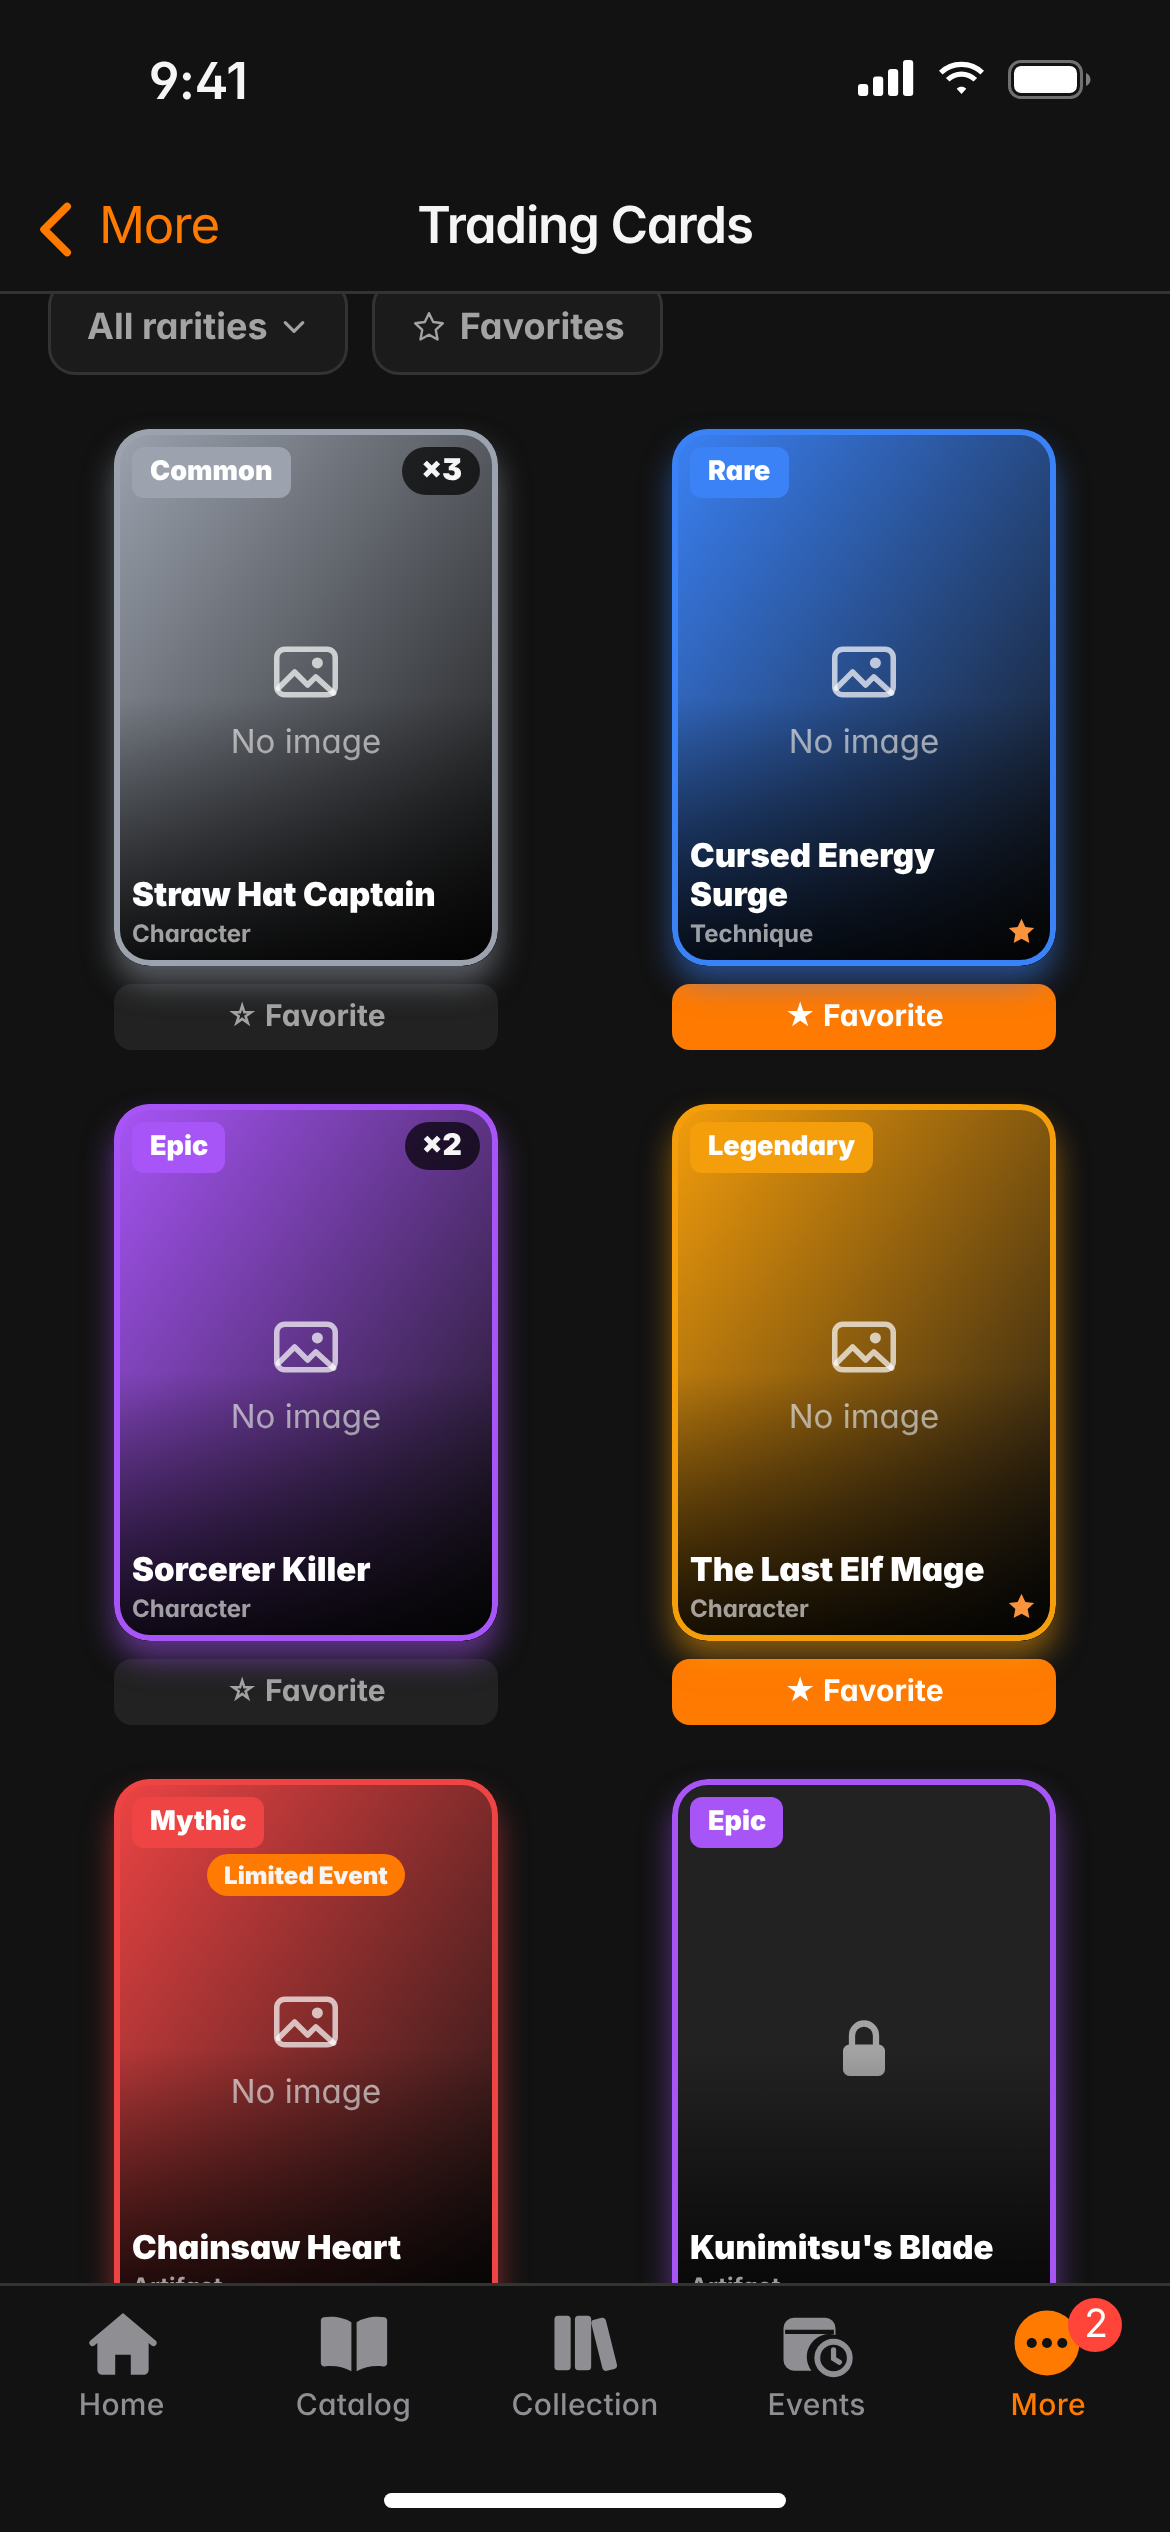
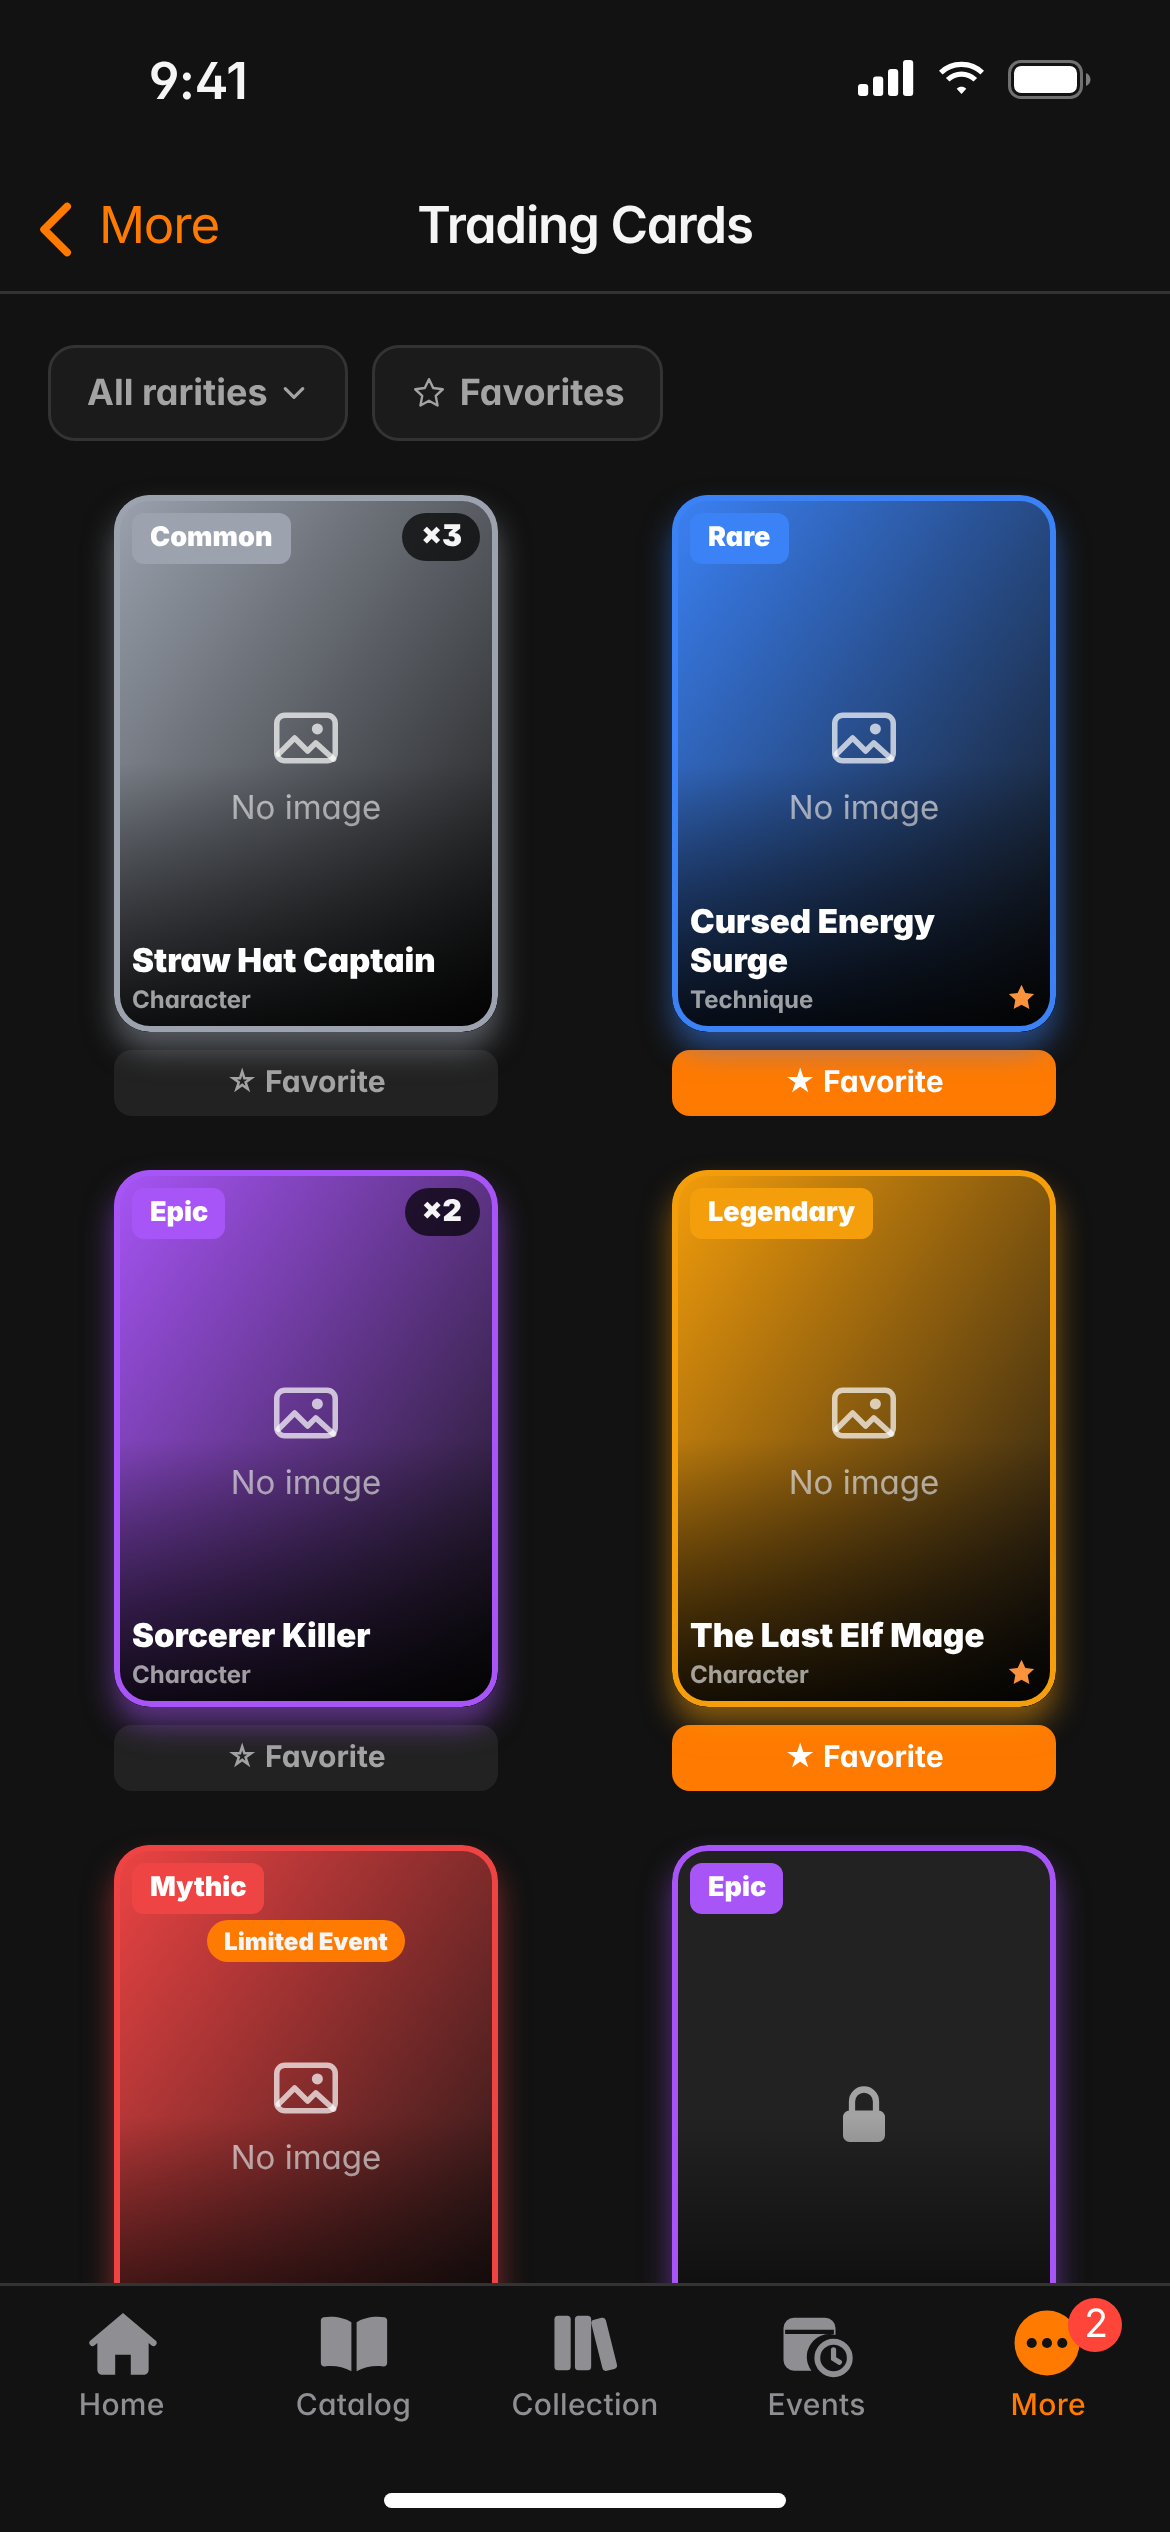
README: iPhone screenshots
Claude-Session: https://claude.ai/code/session_01NJDkH3k9qpo2oF5tB7Xcjf

diff --git a/docs/screenshots/src/profile.html b/docs/screenshots/src/profile.html
@@ -1,0 +1,39 @@
+<!doctype html>
+<html lang="en"><head><meta charset="utf-8"><meta name="viewport" content="width=390">
+<title>Profile – ProfileView</title>
+<link rel="stylesheet" href="style.css"><script src="common.js"></script></head>
+<body><script>
+// ProfileView(profileId:) (Views/Profile/ProfileView.swift): a friend's public profile, opened from Friends.
+// No banner/avatar uploaded → the view's default gradient banner and person placeholder.
+const { icon, badge } = MV;
+const stat = (l, v) => `<div class="vstack" style="gap:1px"><span class="c2 w7 muted up">${l}</span><span class="t3 w9">${v}</span></div>`;
+const tag = (t) => `<span class="c1 w7" style="padding:5px 10px;border-radius:8px;background:var(--card-solid);box-shadow:inset 0 0 0 1px var(--border);white-space:nowrap">${t}</span>`;
+const tags = (title, list) => `<div class="c1 w7 muted up" style="padding-top:4px">${title}</div><div style="display:flex;flex-wrap:wrap;gap:8px">${list.map(tag).join("")}</div>`;
+const content = `<div class="pad vstack" style="gap:20px">
+  <div style="border-radius:18px;overflow:hidden;border:1px solid var(--border);position:relative">
+    <div style="height:150px;background:linear-gradient(to bottom right, rgba(255,122,0,.35), #101010)"></div>
+    <div class="vstack" style="padding:18px;gap:10px">
+      <div class="hstack" style="align-items:flex-end;margin-top:-46px">
+        <div style="width:92px;height:92px;border-radius:18px;background:var(--card-solid);box-shadow:0 0 0 4px var(--bg);display:flex;align-items:center;justify-content:center;color:var(--muted)">${icon("person.fill", "", "width:34px;height:34px")}</div>
+        <span class="spacer"></span>${badge("PUBLIC", { icon: "globe", fg: "var(--emerald)", bg: "rgba(16,185,129,.2)", ring: "rgba(16,185,129,.4)" })}
+      </div>
+      <div class="t2 w9">mangafan_ruby</div>
+      <div class="sub muted">Seinen &amp; dark fantasy collector. Rereading Vinland Saga.</div>
+      <div class="vstack" style="gap:12px;padding-top:6px">
+        <div class="hstack" style="gap:22px">${stat("Friends", "14")}${stat("Series", "31")}${stat("Volumes", "212")}</div>
+        <div class="hstack" style="gap:10px">
+          <div class="btn primary flex">${icon("books.vertical")}View Collection</div>
+          <div class="btn outline flex">${icon("bubble.left.and.bubble.right")}Message</div>
+        </div>
+        <div class="lbl c1 w7 em">${icon("checkmark.circle.fill", "", "width:13px;height:13px")}Friends</div>
+      </div>
+      <div class="c1 w7 muted" style="padding-top:4px">FEATURED ACHIEVEMENTS</div>
+      <div style="display:flex;flex-wrap:wrap;gap:8px">${["👑 Manga Master", "🔥 Unbreakable", "🏆 Completionist"].map(tag).join("")}</div>
+      ${tags("Favorite Manga", ["Vinland Saga", "Frieren", "Chainsaw Man", "Dandadan"])}
+      ${tags("Favorite Characters", ["Thorfinn", "Frieren", "Power", "Okarun"])}
+      ${tags("Favorite Genres", ["Seinen", "Dark Fantasy", "Historical", "Horror"])}
+    </div>
+  </div>
+</div>`;
+MV.screen({ nav: { back: "Friends", title: "Reader" }, tab: "more", moreBadge: 2, scroll: 40, content });
+</script></body></html>

diff --git a/docs/screenshots/src/friends.html b/docs/screenshots/src/friends.html
@@ -1,0 +1,33 @@
+<!doctype html>
+<html lang="en"><head><meta charset="utf-8"><meta name="viewport" content="width=390">
+<title>Friends – FriendsView</title>
+<link rel="stylesheet" href="style.css"><script src="common.js"></script></head>
+<body><script>
+// FriendsView (Views/Social/SocialViews.swift), More › Friends, "Friends" segment selected.
+// SVAvatar without image = first letter on an orange-tinted circle.
+const { icon, header } = MV;
+const FRIENDS = [
+  ["mangafan_ruby", "Seinen & dark fantasy collector. Rereading Vinland Saga."],
+  ["shonen_sam", "One Piece since volume 1. Waiting for the final saga."],
+  ["panelhopper", "Weekly Jump reader, Kagurabachi hype train."],
+  ["otaku_owl", "Night reader. Frieren and slice-of-life forever."],
+  ["inkblot_ninja", "Collecting every Chainsaw Man variant cover."],
+  ["kawaii_kenta", "Spy x Family & Sakamoto Days on repeat."],
+  ["volume_vault", "212 volumes and counting."],
+];
+const seg = (t, on) => `<div style="flex:1 1 0;min-width:0;white-space:nowrap;height:28px;border-radius:7px;display:flex;align-items:center;justify-content:center;font-size:13px;font-weight:${on ? 600 : 500};${on ? "background:#636366;box-shadow:0 3px 8px rgba(0,0,0,.12)" : ""}">${t}</div>`;
+const row = ([name, bio]) => `<div class="card hstack" style="padding:12px;gap:12px">
+  <div style="width:46px;height:46px;border-radius:50%;flex:none;background:rgba(255,122,0,.2);box-shadow:inset 0 0 0 1px var(--border);display:flex;align-items:center;justify-content:center;font-size:19px;font-weight:900;color:var(--primary)">${name[0].toUpperCase()}</div>
+  <div class="vstack" style="gap:3px;min-width:0;flex:1"><span class="sub w7 nowrap">${name}</span><span class="c1 muted clamp2">${bio}</span></div>
+  <div class="hstack" style="gap:6px;flex:none">
+    <span style="width:34px;height:34px;border-radius:8px;background:var(--primary);display:flex;align-items:center;justify-content:center;color:#fff">${icon("bubble.left.fill", "", "width:15px;height:15px")}</span>
+    <span style="width:34px;height:34px;border-radius:8px;background:var(--card-solid);box-shadow:inset 0 0 0 1px var(--border);display:flex;align-items:center;justify-content:center;color:var(--red)">${icon("person.badge.minus", "", "width:16px;height:16px")}</span>
+  </div>
+</div>`;
+const content = `<div class="pad vstack" style="gap:18px">
+  ${header({ lead: "MY", accent: "FRIENDS", subtitle: "Find readers, manage requests and chat." })}
+  <div class="hstack" style="padding:2px;border-radius:9px;background:rgba(118,118,128,.24);gap:2px">${seg("Friends (7)", true)}${seg("Requests (1)")}${seg("Sent (0)")}${seg("Find")}</div>
+  <div class="vstack" style="gap:10px">${FRIENDS.map(row).join("")}</div>
+</div>`;
+MV.screen({ nav: { back: "More", title: "Friends" }, tab: "more", moreBadge: 2, scroll: 0, content });
+</script></body></html>

diff --git a/docs/screenshots/src/events.html b/docs/screenshots/src/events.html
@@ -12,7 +12,7 @@ const EVENT = {
 };
 const pill = (label, hex) => `<span style="font-size:10px;font-weight:900;padding:3px 8px;border-radius:4px;color:${hex};background:${hex}26;box-shadow:inset 0 0 0 1px ${hex}80">${label}</span>`;
 function eventCard(e) {
-  return `<div style="border-radius:14px;overflow:hidden;background:var(--card);box-shadow:inset 0 0 0 1px ${e.active ? e.accent + "80" : "var(--border)"}">
+  return `<div style="border-radius:14px;overflow:hidden;background:var(--card);border:1px solid ${e.active ? e.accent + "80" : "var(--border)"}">
     <div style="position:relative;height:130px;background:linear-gradient(to bottom right, ${e.accent}, var(--bg))">
       <div style="position:absolute;inset:0;background:linear-gradient(to bottom, transparent, rgba(0,0,0,.6))"></div>
       <div class="hstack" style="position:absolute;left:10px;right:10px;top:10px">${badge(e.type.toUpperCase(), { bg: "rgba(0,0,0,.65)", ring: e.accent + "99" })}<span class="spacer"></span>${e.active ? badge("LIVE", { icon: "dot.radiowaves.left.and.right", bg: "var(--red)" }) : ""}</div>

diff --git a/docs/screenshots/src/cards.html b/docs/screenshots/src/cards.html
@@ -45,5 +45,5 @@ const content = `<div class="pad vstack" style="gap:18px">
   </div>
   <div style="display:grid;grid-template-columns:1fr 1fr;column-gap:14px;row-gap:18px">${CARDS.map(tcard).join("")}</div>
 </div>`;
-MV.screen({ nav: { back: "More", title: "Trading Cards" }, tab: "more", moreBadge: 2, scroll: 236, content });
+MV.screen({ nav: { back: "More", title: "Trading Cards" }, tab: "more", moreBadge: 2, scroll: 214, content });
 </script></body></html>
